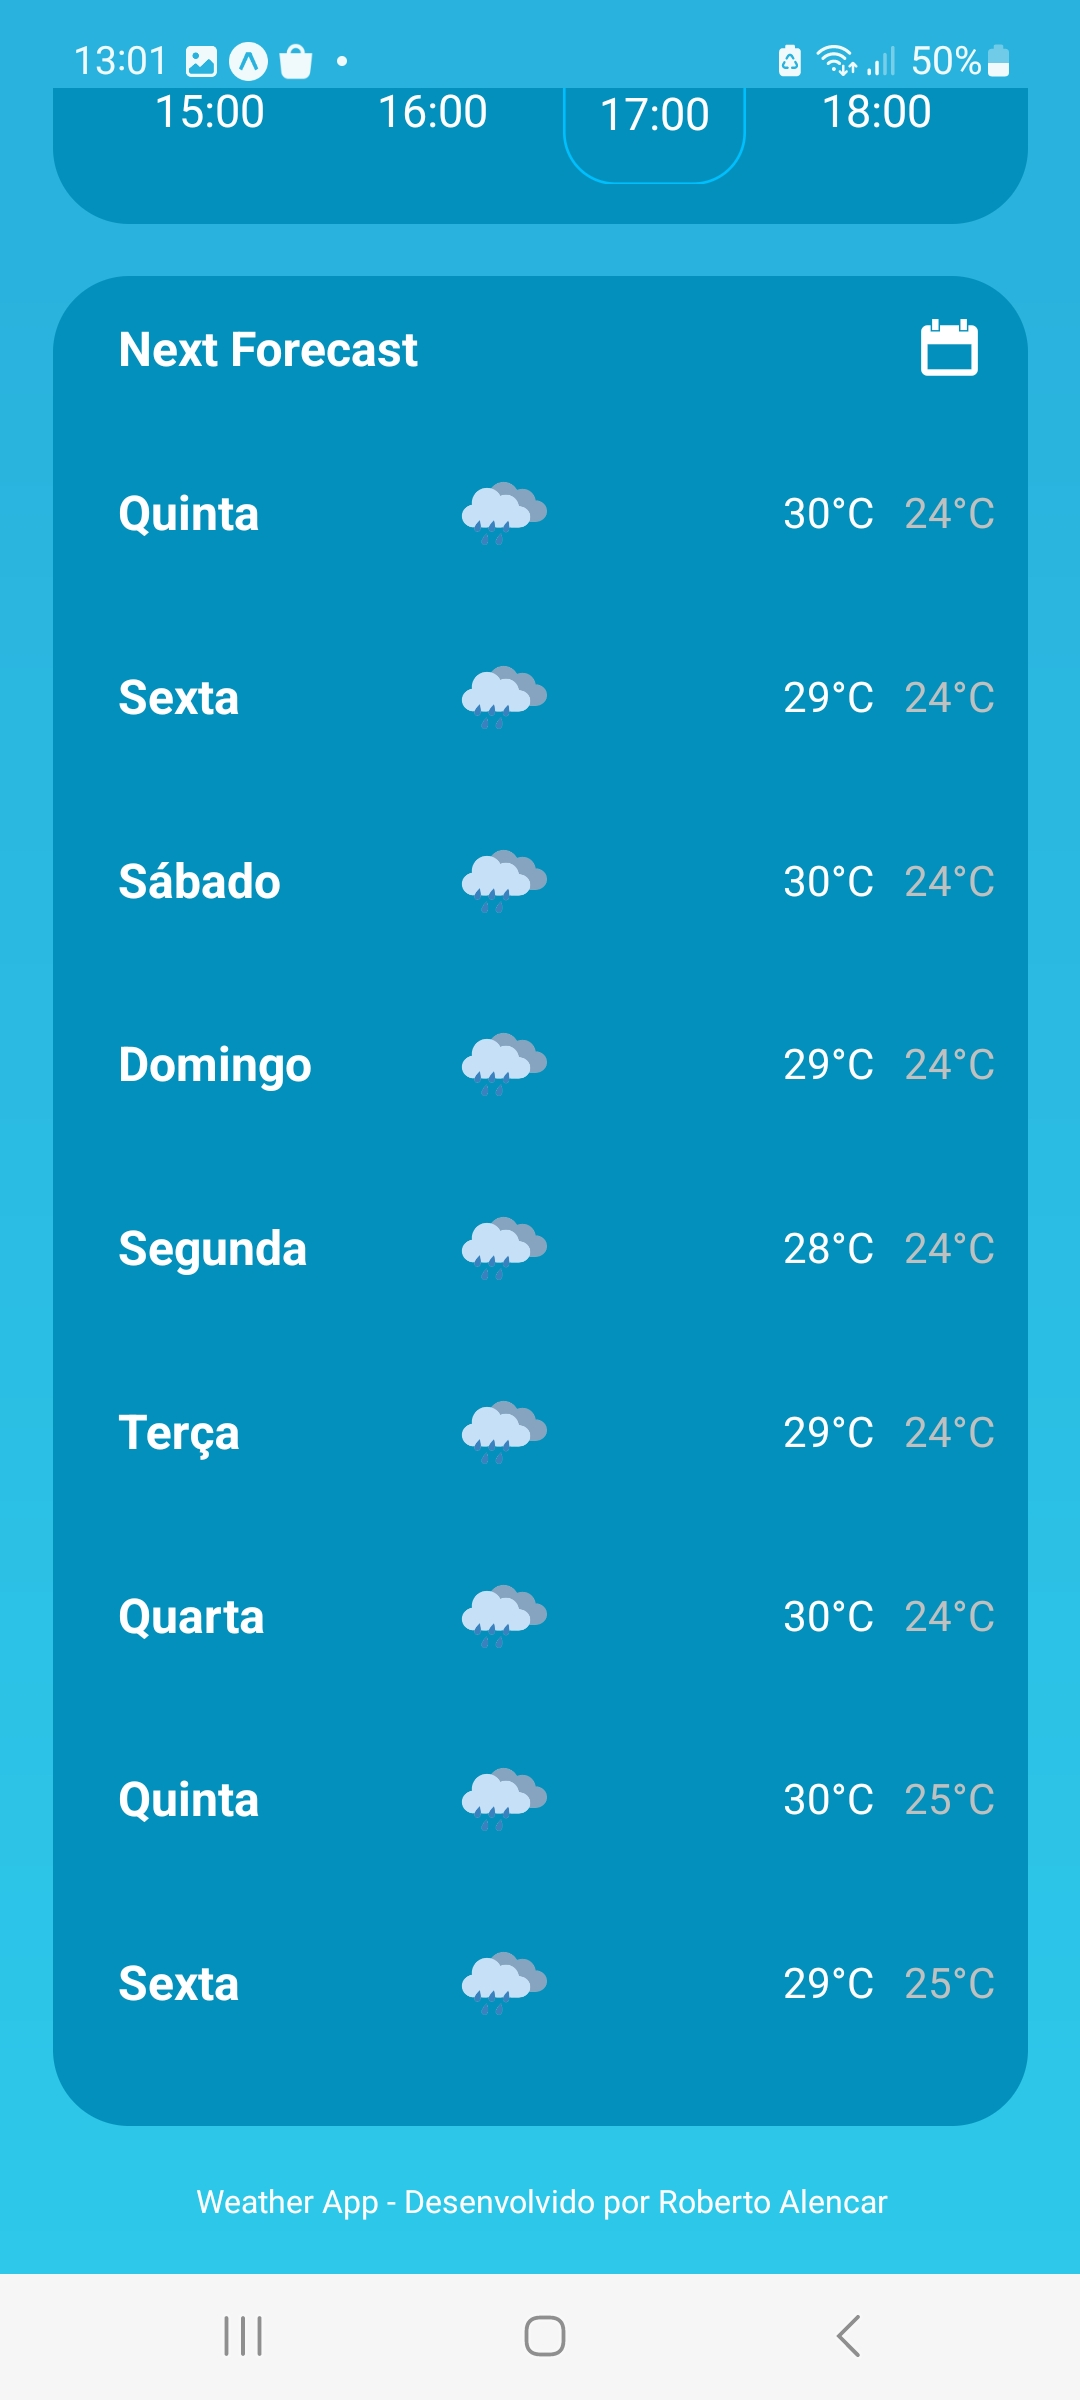
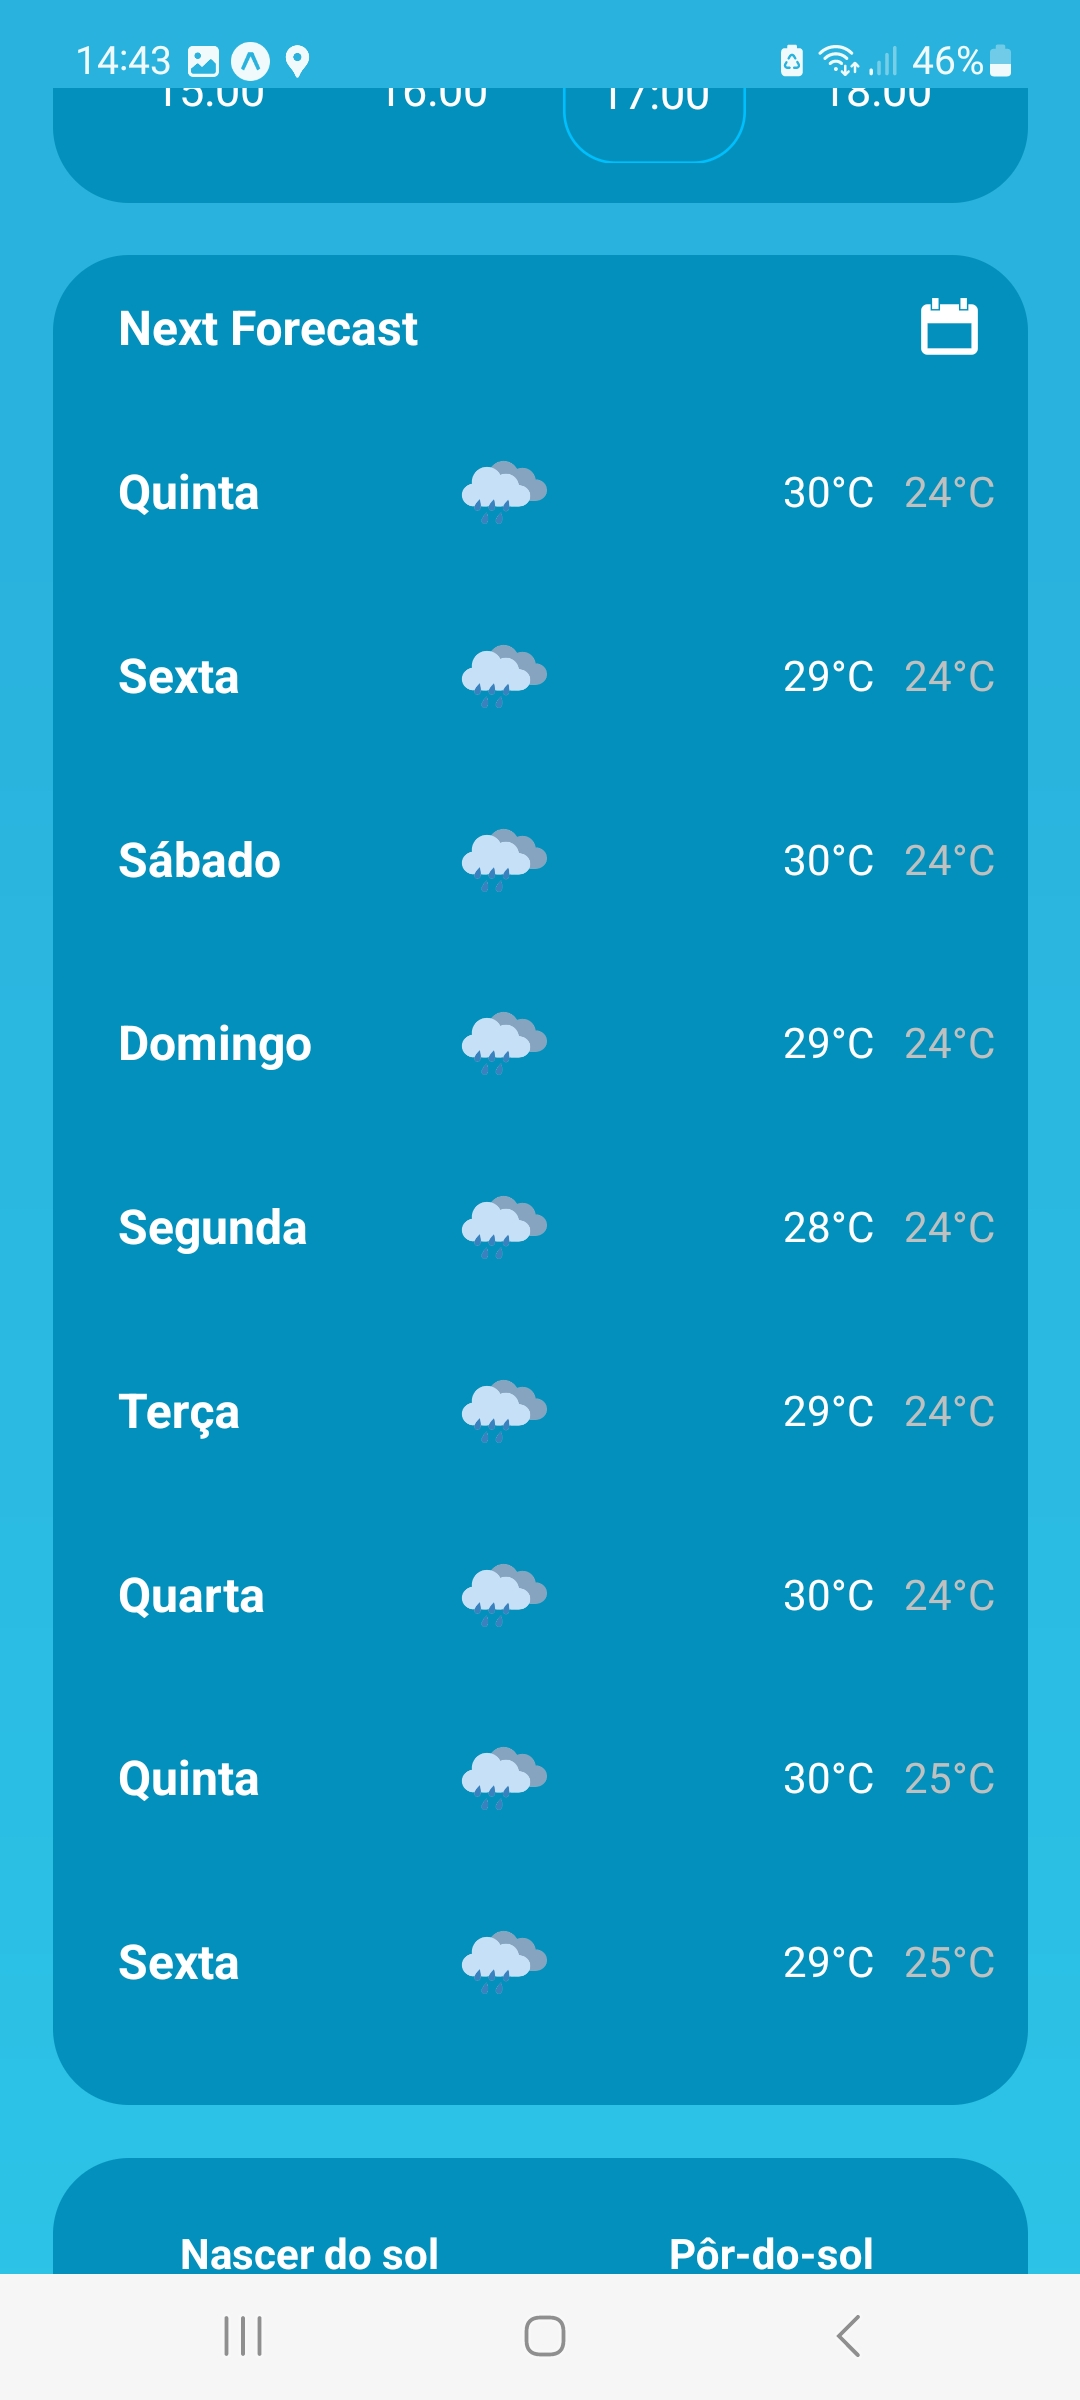
implementando o componente SunsetSunrise

diff --git a/src/components/sunsetsunrise/SunsetSunRise.js b/src/components/sunsetsunrise/SunsetSunRise.js
@@ -1,0 +1,31 @@
+import React from "react";
+import { Image, Text, View } from "react-native";
+import SunsetSunriseStyles from "./SunsetSunriseStyles";
+
+export default (props) => {
+
+    function getBackgroundColor() {
+        
+        return (props.currently === "noite") ? "#104084" : "#0490BC"
+    }
+
+    return (
+
+        <View style={[SunsetSunriseStyles.viewSunsetSunrise, {backgroundColor:getBackgroundColor()}]}>
+
+            <View style={SunsetSunriseStyles.viewContent}>
+                <Text style={[SunsetSunriseStyles.textSunsetSunrise, {fontWeight: 'bold'}]}> Nascer do sol </Text>
+                <Text style={SunsetSunriseStyles.textSunsetSunrise}> {props.sunrise} </Text>
+                <Image source={require('../../../assets/sunrise.png')} style={SunsetSunriseStyles.imagem} />
+            </View>
+
+            <View style={SunsetSunriseStyles.viewContent}>
+                <Text style={[SunsetSunriseStyles.textSunsetSunrise, {fontWeight: 'bold'}]}> Pôr-do-sol </Text>
+                <Text style={SunsetSunriseStyles.textSunsetSunrise}> {props.sunset} </Text>
+                <Image source={require('../../../assets/sunset.png')} style={SunsetSunriseStyles.imagem} />
+            </View>
+
+        </View>
+        
+    );
+}

diff --git a/src/screens/home/Home.js b/src/screens/home/Home.js
@@ -3,6 +3,7 @@ import React, { useEffect, useState } from "react";
 import { ActivityIndicator, LogBox, ScrollView, StatusBar, Text, View } from "react-native";
 import Footer from "../../components/footer/Footer";
 import Header from "../../components/header/Header";
+import SunsetSunrise from '../../components/sunsetsunrise/SunsetSunRise';
 import TemperatureToday from '../../components/temperaturetoday/TemperatureToday';
 import WeatherToday from '../../components/weathertoday/WeatherToday';
 import WeatherWeek from '../../components/weatherweek/WeatherWeek';
@@ -105,6 +106,12 @@ export default function Home () {
                         <WeatherWeek
                             currently={weather?.currently}
                             forecast={forecast}
+                        />
+
+                        <SunsetSunrise
+                            currently={weather?.currently} 
+                            sunrise={weather?.sunrise}
+                            sunset={weather?.sunset}
                         />
 
                         <Footer />

diff --git a/src/components/sunsetsunrise/SunsetSunriseStyles.js b/src/components/sunsetsunrise/SunsetSunriseStyles.js
@@ -1,0 +1,39 @@
+import { StyleSheet } from 'react-native'
+
+export default StyleSheet.create({
+
+    viewSunsetSunrise: {
+        flex: 1, 
+        flexDirection: "row", 
+        justifyContent:"space-between",
+        textAlign:"center",
+        alignContent:"center",
+        padding: 10,
+        marginTop: 20,
+        marginBottom: 20,
+        marginLeft:20,
+        marginRight:20,
+        borderRadius: 29,
+        backgroundColor: "transparent",
+    },
+
+    viewContent: {
+        flex:1, 
+        alignItems:"center", 
+        marginTop: 10, 
+        marginBottom: 10
+    },
+
+    imagem: {
+        width: 80, 
+        height: 80
+    },
+
+    textSunsetSunrise: {
+        fontSize: 16,
+        marginTop: 5,
+        marginBottom: 5,
+        color: '#ffffff',
+    },
+
+})

diff --git a/README.md b/README.md
@@ -49,4 +49,6 @@ $ npx expo start
     <img width="350" alt="image" src="images/Screen04.jpg">
     <img width="350" alt="image" src="images/Screen05.jpg">
     <img width="350" alt="image" src="images/Screen06.jpg">
+    <img width="350" alt="image" src="images/Screen07.jpg">
+    <img width="350" alt="image" src="images/Screen08.jpg">
 </p>
